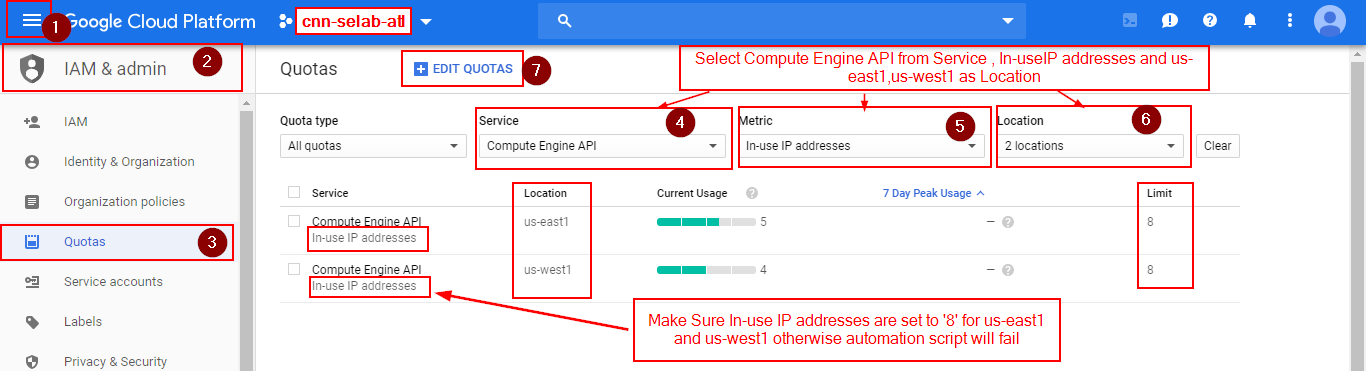
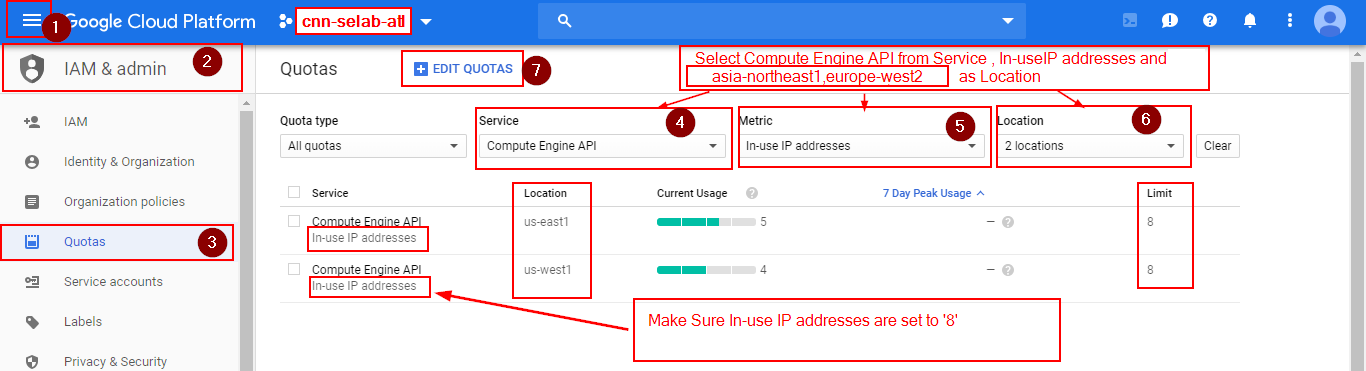
changed the setup region asia-northeast1,europe-west2

Changed region(s): [[0.4919, 0.8302, 0.7687, 0.9488], [0.4919, 0.1779, 0.7072, 0.2372], [0.8609, 0.1482, 0.8917, 0.1779]]

diff --git a/gcp/README.md b/gcp/README.md
@@ -99,7 +99,7 @@ Prerequisites (mandatory):
 
     * In-use IP addresses
 
-        Similarly select required settings and change In-use IP adresses for us-east1 and us-west1 as shown
+        Similarly select required settings and change In-use IP adresses for asia-northeast1, europe-west2 as shown
 
         ![GCP](./media/gcp-free-tier-image-57.png)
 
